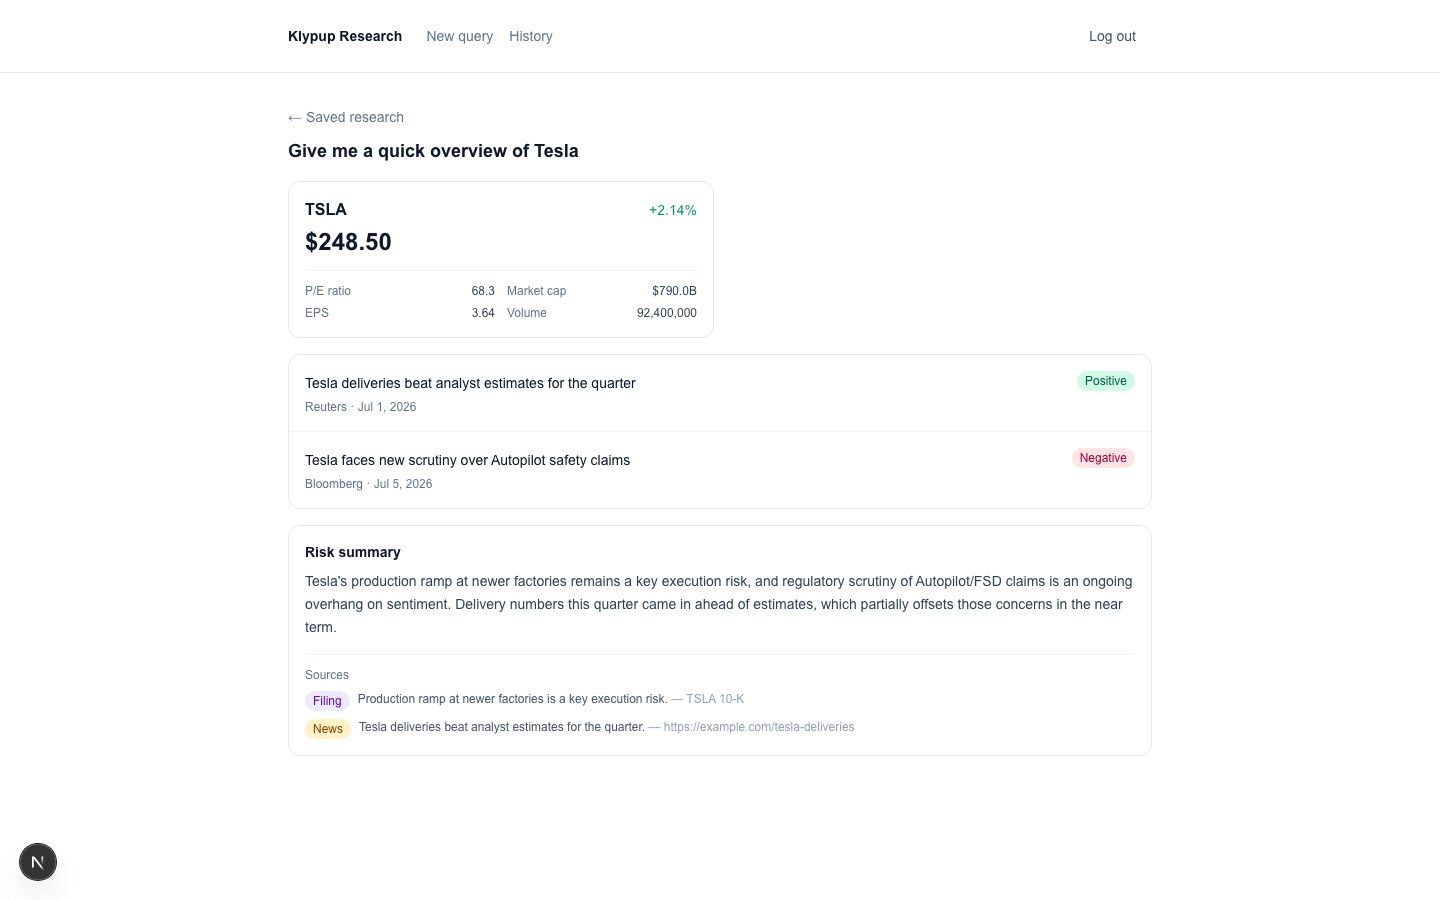
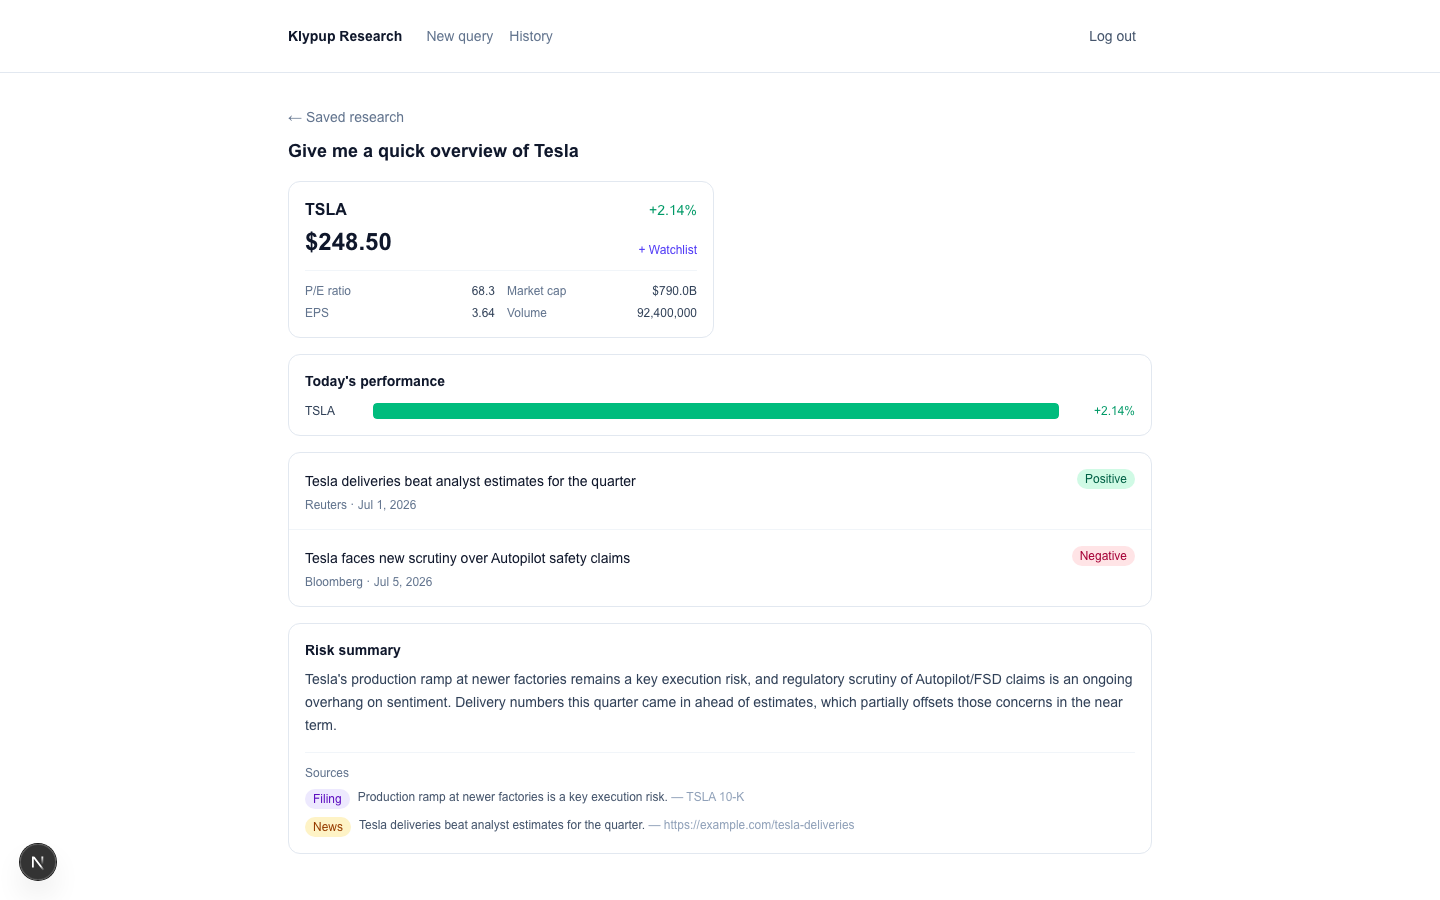
Add watchlist frontend + redesign Dashboard Home to match PDD's spec
Watchlist: an "+ Watchlist" button on every CompanyCard (kept as its own
small client-component island — AddToWatchlistButton — rather than
converting the whole card grid to a client component, since CompanyCards
is also rendered from a Server Component on the saved-report detail
page), proxied through /api/watchlist same as /api/reports (a client
button can't read the httpOnly auth cookie itself). WatchlistStrip on the
dashboard shows tracked tickers as removable chips.

Dashboard Home previously was just the query box — PDD's own spec (and
Section 8 layout sketch) wants "recent research queries, saved reports,
[...] and quick-action buttons" on the landing page, not buried behind a
separate history page. dashboard/page.tsx is now an async Server
Component fetching both /reports and /watchlist directly (same pattern as
the history pages — no BFF proxy needed for a server-side read) and
rendering RecentReports + WatchlistStrip below the existing query
console.

main.py, ARCHITECTURE.md, and README updated for the new /watchlist
routes; screenshots regenerated against the running app to show all of
this for real.

diff --git a/frontend/src/components/dashboard/WatchlistStrip.tsx b/frontend/src/components/dashboard/WatchlistStrip.tsx
@@ -1,0 +1,51 @@
+"use client";
+
+import { useState } from "react";
+
+import type { WatchlistItemResponse } from "@/lib/types";
+
+export function WatchlistStrip({ initialItems }: { initialItems: WatchlistItemResponse[] }) {
+  const [items, setItems] = useState(initialItems);
+  const [removingId, setRemovingId] = useState<number | null>(null);
+
+  async function handleRemove(id: number) {
+    setRemovingId(id);
+    const res = await fetch(`/api/watchlist/${id}`, { method: "DELETE" });
+    if (res.ok) {
+      setItems((current) => current.filter((item) => item.id !== id));
+    }
+    setRemovingId(null);
+  }
+
+  return (
+    <div className="rounded-xl border border-slate-200 bg-white p-4 dark:border-white/10 dark:bg-white/[0.03]">
+      <h3 className="text-sm font-semibold text-slate-900 dark:text-white">Watchlist</h3>
+
+      {items.length === 0 ? (
+        <p className="mt-3 text-xs text-slate-400 dark:text-slate-500">
+          No companies tracked yet — add one from any research result.
+        </p>
+      ) : (
+        <div className="mt-3 flex flex-wrap gap-2">
+          {items.map((item) => (
+            <span
+              key={item.id}
+              className="inline-flex items-center gap-1.5 rounded-full border border-slate-200 bg-slate-50 py-1 pl-3 pr-1.5 text-xs font-medium text-slate-700 dark:border-white/10 dark:bg-white/5 dark:text-slate-200"
+            >
+              {item.ticker}
+              <button
+                type="button"
+                onClick={() => handleRemove(item.id)}
+                disabled={removingId === item.id}
+                aria-label={`Remove ${item.ticker} from watchlist`}
+                className="rounded-full px-1 text-slate-400 hover:bg-slate-200 hover:text-slate-600 disabled:opacity-50 dark:hover:bg-white/10 dark:hover:text-slate-200"
+              >
+                ×
+              </button>
+            </span>
+          ))}
+        </div>
+      )}
+    </div>
+  );
+}

diff --git a/frontend/src/components/dashboard/RecentReports.tsx b/frontend/src/components/dashboard/RecentReports.tsx
@@ -1,0 +1,50 @@
+import Link from "next/link";
+
+import type { ReportListItem } from "@/lib/types";
+
+function formatDate(iso: string) {
+  const date = new Date(iso);
+  return Number.isNaN(date.getTime())
+    ? iso
+    : date.toLocaleDateString(undefined, { month: "short", day: "numeric" });
+}
+
+export function RecentReports({ reports }: { reports: ReportListItem[] }) {
+  return (
+    <div className="rounded-xl border border-slate-200 bg-white p-4 dark:border-white/10 dark:bg-white/[0.03]">
+      <div className="flex items-center justify-between">
+        <h3 className="text-sm font-semibold text-slate-900 dark:text-white">Recent research</h3>
+        <Link
+          href="/dashboard/history"
+          className="text-xs text-indigo-600 hover:text-indigo-500 dark:text-indigo-400"
+        >
+          View all
+        </Link>
+      </div>
+
+      {reports.length === 0 ? (
+        <p className="mt-3 text-xs text-slate-400 dark:text-slate-500">
+          Nothing saved yet — run a query above and save it to see it here.
+        </p>
+      ) : (
+        <ul className="mt-3 space-y-2">
+          {reports.map((report) => (
+            <li key={report.id}>
+              <Link
+                href={`/dashboard/history/${report.id}`}
+                className="flex items-center justify-between gap-3 text-xs hover:text-indigo-600 dark:hover:text-indigo-400"
+              >
+                <span className="truncate text-slate-700 dark:text-slate-200">
+                  {report.query_text}
+                </span>
+                <span className="flex-none text-slate-400 dark:text-slate-500">
+                  {formatDate(report.created_at)}
+                </span>
+              </Link>
+            </li>
+          ))}
+        </ul>
+      )}
+    </div>
+  );
+}

diff --git a/frontend/src/components/research/AddToWatchlistButton.tsx b/frontend/src/components/research/AddToWatchlistButton.tsx
@@ -1,0 +1,47 @@
+"use client";
+
+import { useState } from "react";
+
+import type { WatchlistItemCreate } from "@/lib/types";
+
+type AddState = "idle" | "adding" | "added" | "error";
+
+/** A small client-component island embedded per CompanyCard — kept
+ * separate from CompanyCards itself (which stays a plain presentational
+ * component usable from Server Components, e.g. the saved-report detail
+ * page) rather than converting the whole card grid to a client component
+ * just for this one button.
+ */
+export function AddToWatchlistButton({ ticker }: { ticker: string }) {
+  const [state, setState] = useState<AddState>("idle");
+
+  async function handleAdd() {
+    setState("adding");
+    try {
+      const payload: WatchlistItemCreate = { ticker };
+      const res = await fetch("/api/watchlist", {
+        method: "POST",
+        headers: { "Content-Type": "application/json" },
+        body: JSON.stringify(payload),
+      });
+      setState(res.ok ? "added" : "error");
+    } catch {
+      setState("error");
+    }
+  }
+
+  if (state === "added") {
+    return <span className="text-xs font-medium text-emerald-600 dark:text-emerald-400">On watchlist</span>;
+  }
+
+  return (
+    <button
+      type="button"
+      onClick={handleAdd}
+      disabled={state === "adding"}
+      className="text-xs font-medium text-indigo-600 hover:text-indigo-500 disabled:opacity-50 dark:text-indigo-400 dark:hover:text-indigo-300"
+    >
+      {state === "adding" ? "Adding…" : state === "error" ? "Couldn't add — retry" : "+ Watchlist"}
+    </button>
+  );
+}

diff --git a/frontend/src/app/dashboard/page.tsx b/frontend/src/app/dashboard/page.tsx
@@ -1,5 +1,36 @@
+import { RecentReports } from "@/components/dashboard/RecentReports";
+import { WatchlistStrip } from "@/components/dashboard/WatchlistStrip";
 import { ResearchConsole } from "@/components/research/ResearchConsole";
+import { BACKEND_URL } from "@/lib/backend";
+import { getAuthToken } from "@/lib/server-auth";
+import type { ReportListItem, WatchlistItemResponse } from "@/lib/types";
 
-export default function DashboardPage() {
-  return <ResearchConsole />;
+const RECENT_REPORTS_LIMIT = 3;
+
+export default async function DashboardPage() {
+  const token = await getAuthToken();
+  const authHeader = { Authorization: `Bearer ${token}` };
+
+  const [reportsRes, watchlistRes] = await Promise.all([
+    fetch(`${BACKEND_URL}/reports`, { headers: authHeader, cache: "no-store" }),
+    fetch(`${BACKEND_URL}/watchlist`, { headers: authHeader, cache: "no-store" }),
+  ]);
+
+  const recentReports: ReportListItem[] = reportsRes.ok
+    ? (await reportsRes.json()).reports.slice(0, RECENT_REPORTS_LIMIT)
+    : [];
+  const watchlistItems: WatchlistItemResponse[] = watchlistRes.ok
+    ? (await watchlistRes.json()).items
+    : [];
+
+  return (
+    <div className="space-y-8">
+      <ResearchConsole />
+
+      <div className="grid grid-cols-1 gap-4 sm:grid-cols-2">
+        <RecentReports reports={recentReports} />
+        <WatchlistStrip initialItems={watchlistItems} />
+      </div>
+    </div>
+  );
 }

diff --git a/frontend/src/app/api/watchlist/route.ts b/frontend/src/app/api/watchlist/route.ts
@@ -1,0 +1,30 @@
+import { NextRequest, NextResponse } from "next/server";
+
+import { AUTH_COOKIE_NAME } from "@/lib/auth-cookie";
+import { BACKEND_URL } from "@/lib/backend";
+import type { WatchlistItemCreate } from "@/lib/types";
+
+/** Proxies to FastAPI's POST /watchlist — same BFF reasoning as
+ * /api/reports: a client component (the "Add to watchlist" button) can't
+ * read the httpOnly cookie itself.
+ */
+export async function POST(request: NextRequest) {
+  const token = request.cookies.get(AUTH_COOKIE_NAME)?.value;
+  if (!token) {
+    return NextResponse.json({ detail: "Not authenticated" }, { status: 401 });
+  }
+
+  const body: WatchlistItemCreate = await request.json();
+
+  const backendRes = await fetch(`${BACKEND_URL}/watchlist`, {
+    method: "POST",
+    headers: {
+      "Content-Type": "application/json",
+      Authorization: `Bearer ${token}`,
+    },
+    body: JSON.stringify(body),
+  });
+
+  const data = await backendRes.json();
+  return NextResponse.json(data, { status: backendRes.status });
+}

diff --git a/frontend/src/app/api/watchlist/[id]/route.ts b/frontend/src/app/api/watchlist/[id]/route.ts
@@ -1,0 +1,24 @@
+import { NextRequest, NextResponse } from "next/server";
+
+import { AUTH_COOKIE_NAME } from "@/lib/auth-cookie";
+import { BACKEND_URL } from "@/lib/backend";
+
+/** Proxies to FastAPI's DELETE /watchlist/{id}. */
+export async function DELETE(request: NextRequest, { params }: { params: Promise<{ id: string }> }) {
+  const token = request.cookies.get(AUTH_COOKIE_NAME)?.value;
+  if (!token) {
+    return NextResponse.json({ detail: "Not authenticated" }, { status: 401 });
+  }
+
+  const { id } = await params;
+  const backendRes = await fetch(`${BACKEND_URL}/watchlist/${id}`, {
+    method: "DELETE",
+    headers: { Authorization: `Bearer ${token}` },
+  });
+
+  if (backendRes.status === 204) {
+    return new NextResponse(null, { status: 204 });
+  }
+  const data = await backendRes.json();
+  return NextResponse.json(data, { status: backendRes.status });
+}

diff --git a/frontend/src/lib/types.ts b/frontend/src/lib/types.ts
@@ -136,3 +136,19 @@ export interface ReportDetailResponse {
   created_at: string;
   updated_at: string;
 }
+
+// --- app/schemas/watchlist.py ---
+
+export interface WatchlistItemCreate {
+  ticker: string;
+}
+
+export interface WatchlistItemResponse {
+  id: number;
+  ticker: string;
+  added_at: string;
+}
+
+export interface WatchlistResponse {
+  items: WatchlistItemResponse[];
+}

diff --git a/frontend/src/components/research/CompanyCards.tsx b/frontend/src/components/research/CompanyCards.tsx
@@ -1,3 +1,4 @@
+import { AddToWatchlistButton } from "@/components/research/AddToWatchlistButton";
 import type { CompanyCard } from "@/lib/types";
 
 function formatPrice(price: number | null) {
@@ -54,8 +55,11 @@ export function CompanyCards({ cards }: { cards: CompanyCard[] }) {
             <span className="font-semibold text-slate-900 dark:text-white">{card.ticker}</span>
             <ChangeBadge changePercent={card.change_percent} />
           </div>
-          <div className="mt-1 text-2xl font-semibold text-slate-900 dark:text-white">
-            {formatPrice(card.price)}
+          <div className="mt-1 flex items-end justify-between">
+            <span className="text-2xl font-semibold text-slate-900 dark:text-white">
+              {formatPrice(card.price)}
+            </span>
+            <AddToWatchlistButton ticker={card.ticker} />
           </div>
 
           {card.key_metrics && (

diff --git a/backend/app/main.py b/backend/app/main.py
@@ -5,7 +5,7 @@ Deliberately minimal for Milestone 0: app instance, CORS (frontend needs
 to call this from a different origin during local dev), and a single
 health check route to prove the skeleton actually runs end-to-end.
 
-Route modules (auth, research, reports, orgs) get registered here via
+Route modules (auth, research, reports, orgs, watchlist) get registered here via
 `app.include_router(...)` starting Milestone 1 — main.py itself should
 never grow route logic directly, only wiring.
 """

diff --git a/README.md b/README.md
@@ -20,8 +20,9 @@ original working design docs this was built from.
 | | |
 |---|---|
 | ![Login](docs/screenshots/01-login.png) Login | ![Signup](docs/screenshots/02-signup.png) Signup (create org / join by invite) |
-| ![Dashboard](docs/screenshots/03-dashboard-empty.png) Research query dashboard | ![History](docs/screenshots/04-history-list.png) Saved research history |
-| ![Report detail](docs/screenshots/05-report-detail-tesla.png) Saved report — company card, sentiment news, risk summary w/ sources | ![Comparison](docs/screenshots/06-report-detail-comparison.png) Saved report — multi-company comparison table |
+| ![Dashboard](docs/screenshots/03-dashboard-empty.png) Dashboard home — query box, recent research, watchlist | ![History](docs/screenshots/04-history-list.png) Saved research history |
+| ![Report detail](docs/screenshots/05-report-detail-tesla.png) Saved report — company card, performance chart, sentiment news, risk summary w/ sources | ![Comparison](docs/screenshots/06-report-detail-comparison.png) Saved report — multi-company comparison table + chart |
+| ![Dashboard with activity](docs/screenshots/07-dashboard-with-activity.png) Dashboard home after adding a company to the watchlist | |
 
 ---
 
@@ -152,8 +153,7 @@ klypup/
 ## Known limitations
 
 - **No tag/search filtering** on saved research history — deliberately cut for time, noted inline in the UI itself.
-- **Watchlist** — the `watchlist_items` table exists in the schema but has no service/API/UI yet; the assessment marks this "recommended," not required.
-- **No stock performance chart** — cards, comparison table, sentiment news, and risk summary are all built; a chart component isn't yet.
+- **Performance chart shows today's % move, not a historical time series** — the market data tool only fetches a current-day snapshot (Alpha Vantage's `GLOBAL_QUOTE`/`OVERVIEW`); a real multi-day line chart would need a third API call per ticker on an already-tight 25-req/day free tier this project has genuinely exhausted more than once. The bar chart on each result is real data (`change_percent`, already fetched), just not a price-over-time series.
 - **`docker-compose.yml` is Postgres-only** — backend/frontend run natively (`poetry run uvicorn` / `pnpm dev`) for faster hot-reload during development, not containerized end-to-end.
 - **In-process cache, not Redis** — query results cache for 15 minutes in a plain dict (actively evicted, not just lazy) in the single backend process. Documented, argued trade-off — see DECISIONS.md and TDD Section 12.
 - **No live deployment** — runs locally only; see DECISIONS.md for what a deploy would take.

diff --git a/ARCHITECTURE.md b/ARCHITECTURE.md
@@ -18,7 +18,7 @@ graph TB
     end
 
     subgraph "FastAPI (backend/)"
-        Routes["api/ — auth, orgs, research, reports<br/>thin route handlers"]
+        Routes["api/ — auth, orgs, research,<br/>reports, watchlist — thin route handlers"]
         Tenancy["core/tenancy.py<br/>get_current_user, get_scoped_db"]
         Orchestrator["agents/orchestrator.py<br/>two-pass tool-calling loop + TTL cache"]
         RAG["rag/ — ingest.py, retriever.py"]
@@ -259,6 +259,9 @@ from a request body or query param, anywhere.
 | `GET` | `/reports` | Bearer | — | `200` `{reports: [{id, query_text, created_at}], total}` (org-scoped) |
 | `GET` | `/reports/{id}` | Bearer | — | `200` full report or `404` (own-org-missing and cross-org both 404) |
 | `DELETE` | `/reports/{id}` | Bearer | — | `204` or `404` |
+| `POST` | `/watchlist` | Bearer | `{ticker}` | `201` `{id, ticker, added_at}` (dedupes per org) |
+| `GET` | `/watchlist` | Bearer | — | `200` `{items: [...]}` (org-scoped) |
+| `DELETE` | `/watchlist/{id}` | Bearer | — | `204` or `404` |
 | `GET` | `/health` | none | — | `200` `{status, service}` — liveness only, no DB dependency |
 
 Full request/response Pydantic schemas: `backend/app/schemas/`. Live